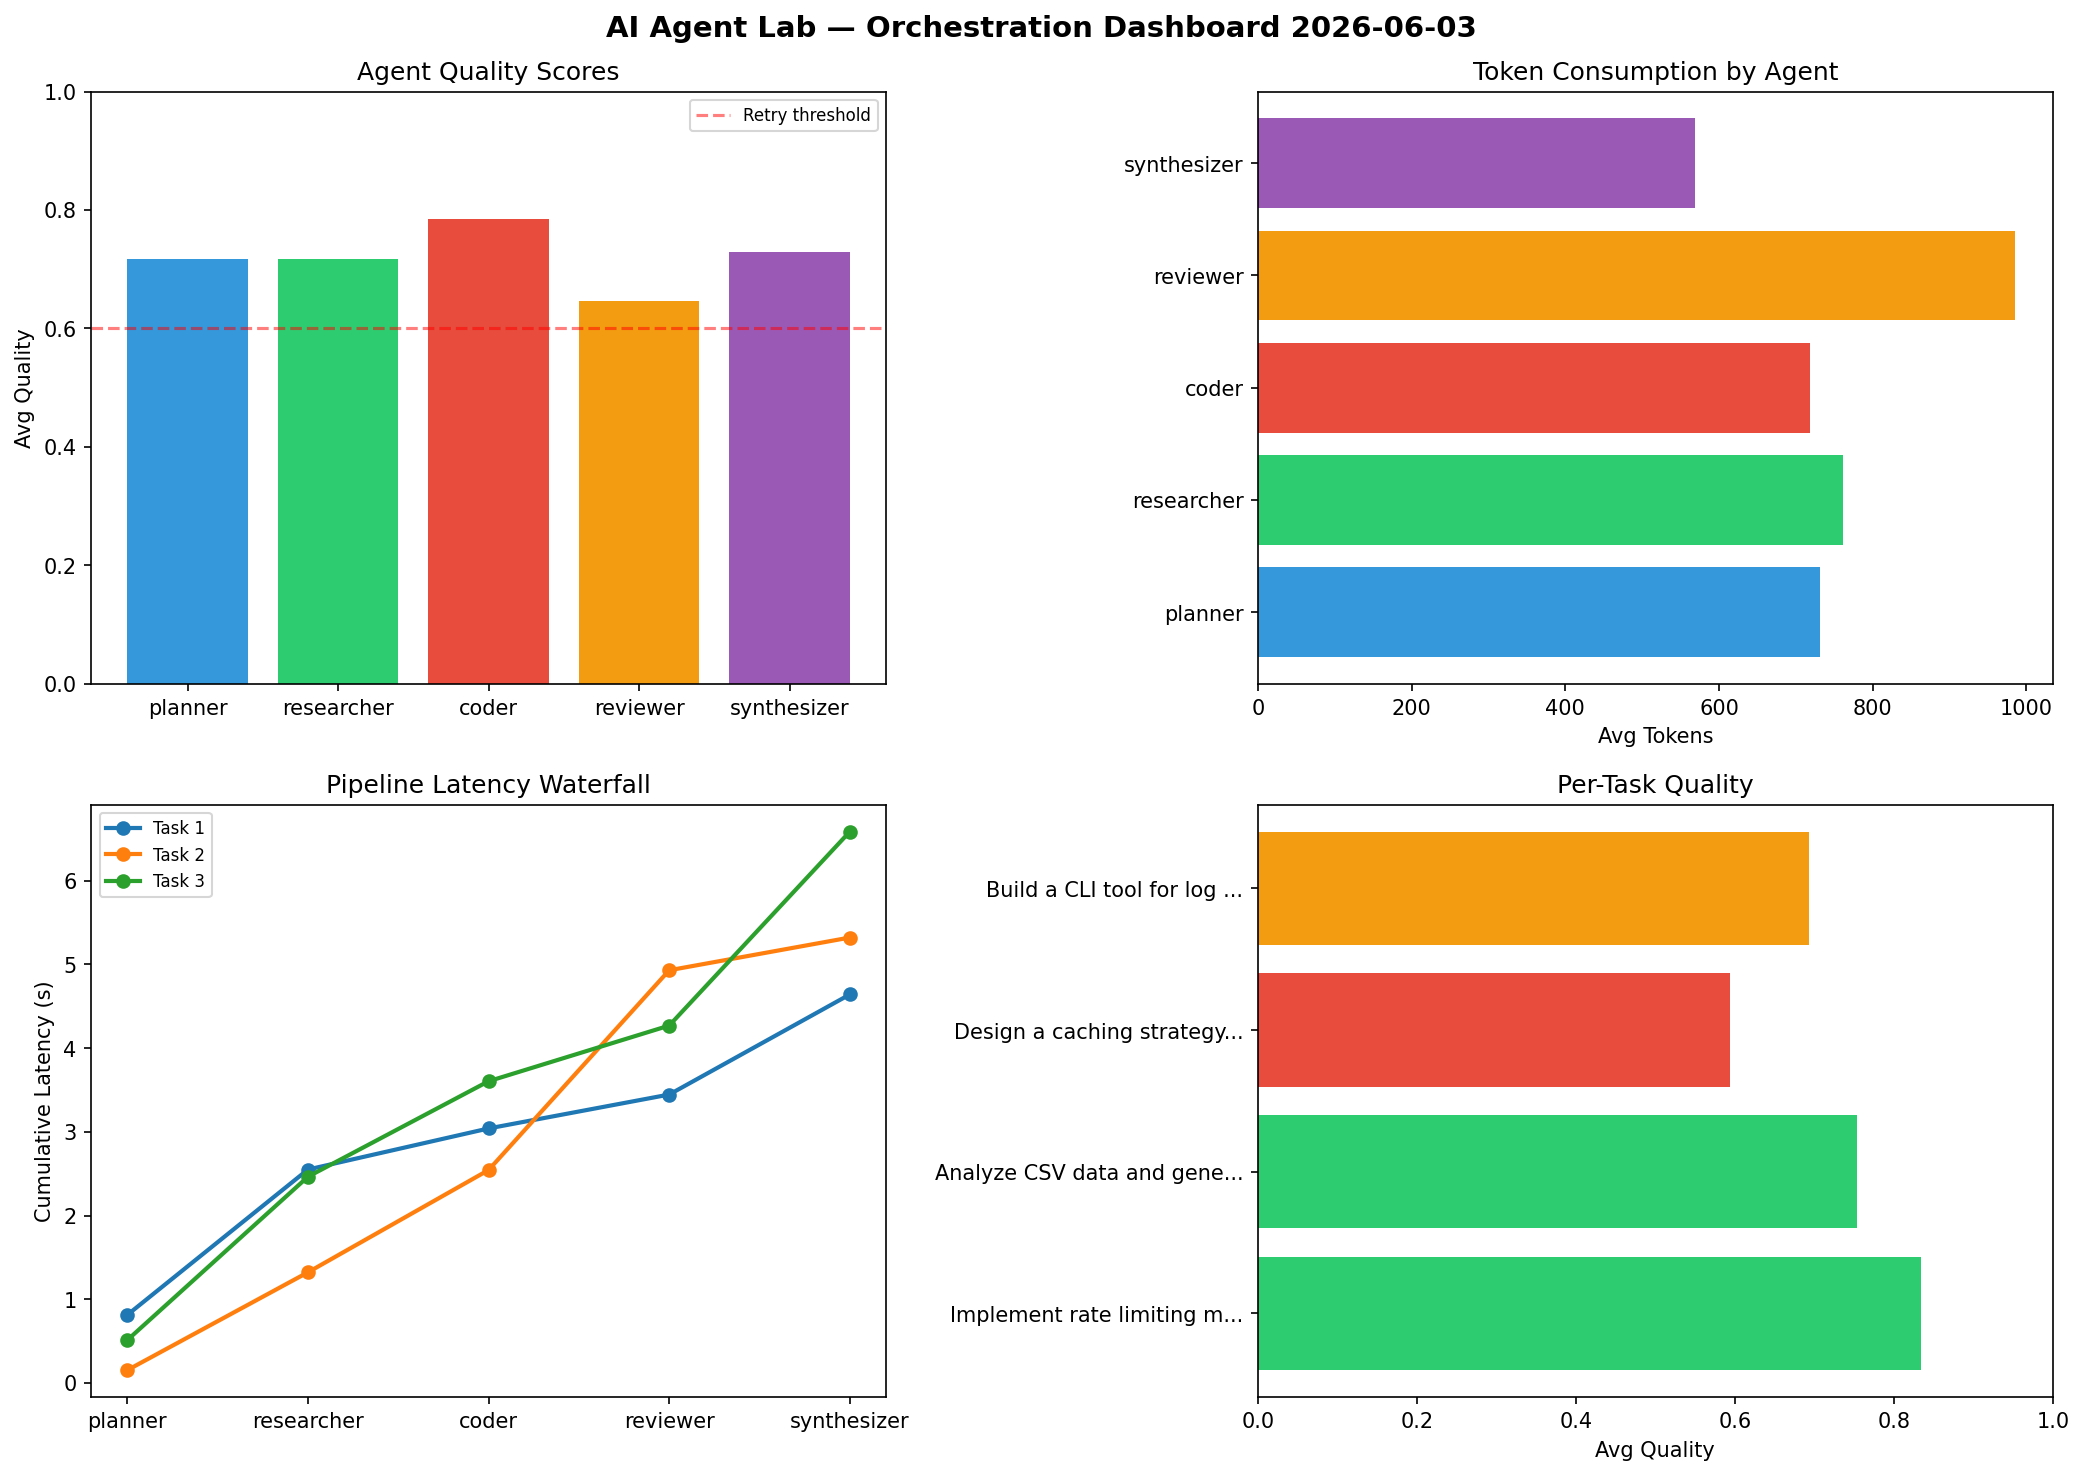
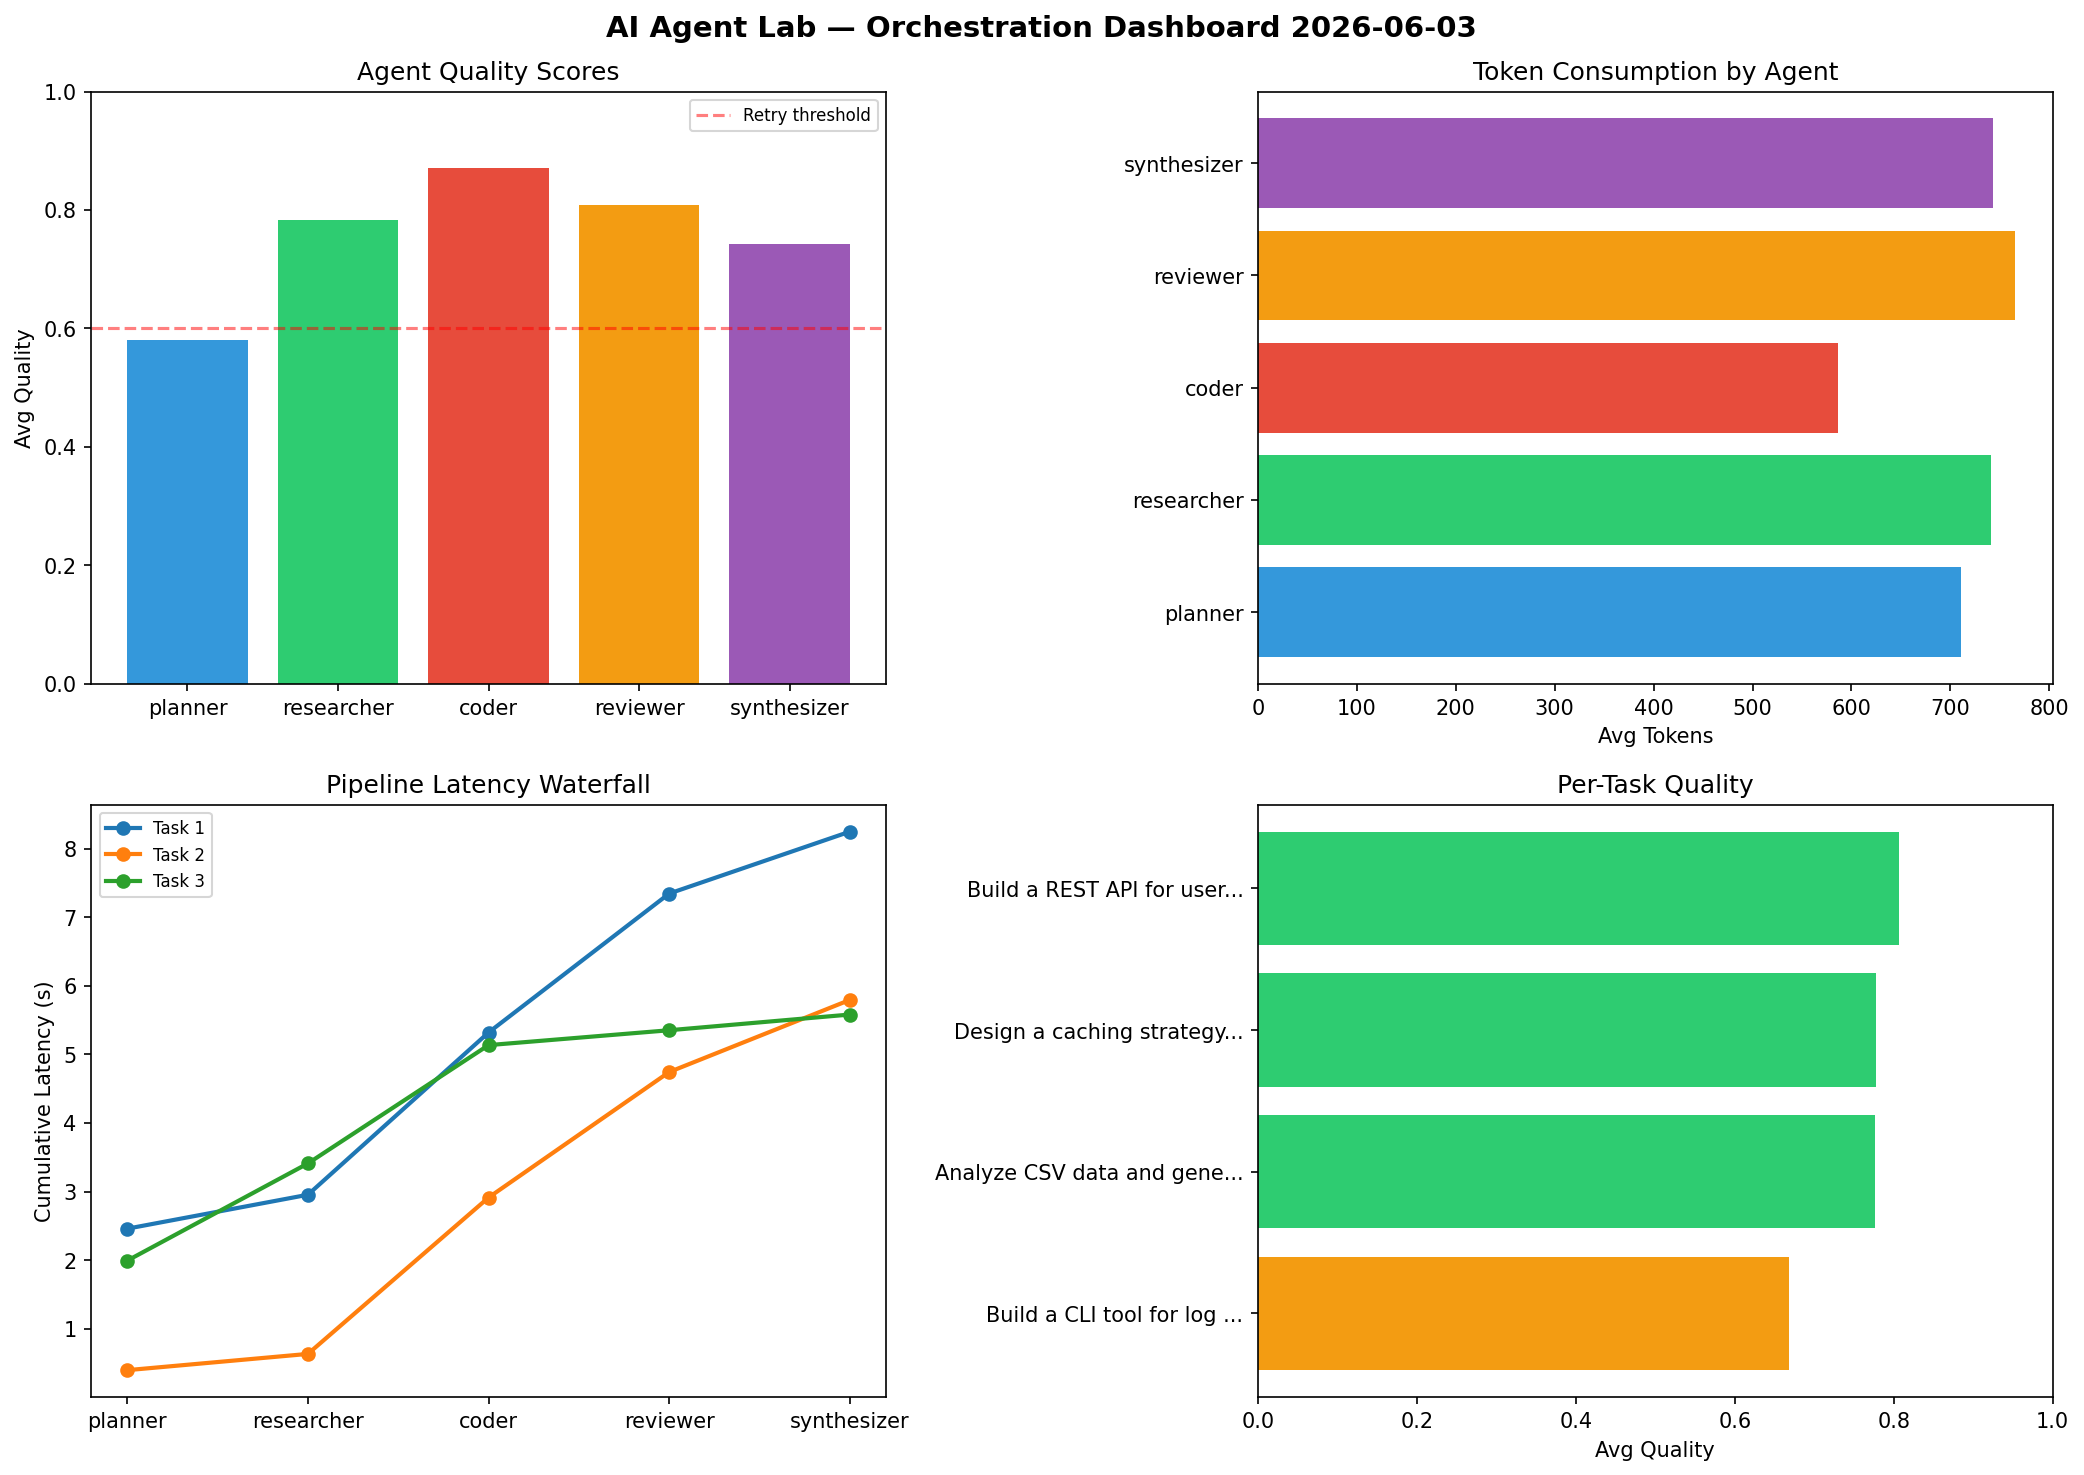
ai-agent-lab: orchestration run 2026-06-03T18:33

diff --git a/logs/2026-06-03.md b/logs/2026-06-03.md
@@ -1,6 +1,6 @@
 # AI Agent Lab — Orchestration Report 2026-06-03
 
-**Run ID:** `218b298b61` | **Tasks:** 4 | **Avg Quality:** 0.719
+**Run ID:** `577933ade6` | **Tasks:** 4 | **Avg Quality:** 0.757
 
 ![Dashboard](2026-06-03_dashboard.png)
 
@@ -8,52 +8,52 @@
 
 | Metric | Value |
 |--------|-------|
-| avg_latency | 5.718 |
-| total_tokens | 15055 |
-| avg_quality | 0.719 |
+| avg_latency | 6.515 |
+| total_tokens | 14189 |
+| avg_quality | 0.757 |
 
 ## Delta vs Yesterday
 
 | Metric | Today | Yesterday | Change |
 |--------|-------|-----------|--------|
-| avg_latency | 5.718 | 7.887 | 📉 -27.5% |
-| total_tokens | 15055 | 13746 | 📈 9.5% |
-| avg_quality | 0.719 | 0.804 | 📉 -10.6% |
+| avg_latency | 6.515 | 7.887 | 📉 -17.4% |
+| total_tokens | 14189 | 13746 | 📈 3.2% |
+| avg_quality | 0.757 | 0.804 | 📉 -5.8% |
 
 ## Pipeline Results
-
-### Implement rate limiting middleware
-| Agent | Quality | Latency | Tokens | Status |
-|-------|---------|---------|--------|--------|
-| planner | 0.672 | 0.813s | 880 | success |
-| researcher | 0.93 | 1.737s | 754 | success |
-| coder | 0.967 | 0.491s | 851 | success |
-| reviewer | 0.68 | 0.405s | 741 | success |
-| synthesizer | 0.922 | 1.196s | 468 | success |
-
-### Analyze CSV data and generate statistical summary
-| Agent | Quality | Latency | Tokens | Status |
-|-------|---------|---------|--------|--------|
-| planner | 0.738 | 0.153s | 916 | success |
-| researcher | 0.596 | 1.169s | 764 | needs_retry |
-| coder | 0.985 | 1.222s | 746 | success |
-| reviewer | 0.72 | 2.387s | 993 | success |
-| synthesizer | 0.733 | 0.391s | 525 | success |
-
-### Design a caching strategy for high-traffic endpoints
-| Agent | Quality | Latency | Tokens | Status |
-|-------|---------|---------|--------|--------|
-| planner | 0.763 | 0.512s | 546 | success |
-| researcher | 0.513 | 1.952s | 755 | needs_retry |
-| coder | 0.601 | 1.141s | 734 | success |
-| reviewer | 0.546 | 0.665s | 1019 | needs_retry |
-| synthesizer | 0.545 | 2.317s | 488 | needs_retry |
 
 ### Build a CLI tool for log analysis
 | Agent | Quality | Latency | Tokens | Status |
 |-------|---------|---------|--------|--------|
-| planner | 0.694 | 0.984s | 583 | success |
-| researcher | 0.827 | 1.425s | 770 | success |
-| coder | 0.586 | 0.41s | 541 | needs_retry |
-| reviewer | 0.638 | 2.486s | 1187 | success |
-| synthesizer | 0.718 | 1.015s | 794 | success |
+| planner | 0.51 | 2.458s | 793 | needs_retry |
+| researcher | 0.508 | 0.495s | 1056 | needs_retry |
+| coder | 0.962 | 2.367s | 851 | success |
+| reviewer | 0.8 | 2.027s | 951 | success |
+| synthesizer | 0.56 | 0.903s | 707 | needs_retry |
+
+### Analyze CSV data and generate statistical summary
+| Agent | Quality | Latency | Tokens | Status |
+|-------|---------|---------|--------|--------|
+| planner | 0.516 | 0.394s | 977 | needs_retry |
+| researcher | 0.84 | 0.237s | 874 | success |
+| coder | 0.761 | 2.281s | 437 | success |
+| reviewer | 0.988 | 1.831s | 973 | success |
+| synthesizer | 0.78 | 1.052s | 472 | success |
+
+### Design a caching strategy for high-traffic endpoints
+| Agent | Quality | Latency | Tokens | Status |
+|-------|---------|---------|--------|--------|
+| planner | 0.671 | 1.992s | 600 | success |
+| researcher | 0.85 | 1.418s | 416 | success |
+| coder | 0.844 | 1.726s | 509 | success |
+| reviewer | 0.796 | 0.217s | 422 | success |
+| synthesizer | 0.729 | 0.229s | 811 | success |
+
+### Build a REST API for user authentication
+| Agent | Quality | Latency | Tokens | Status |
+|-------|---------|---------|--------|--------|
+| planner | 0.627 | 0.524s | 474 | success |
+| researcher | 0.933 | 1.871s | 620 | success |
+| coder | 0.917 | 0.985s | 550 | success |
+| reviewer | 0.647 | 1.323s | 715 | success |
+| synthesizer | 0.904 | 1.731s | 981 | success |
